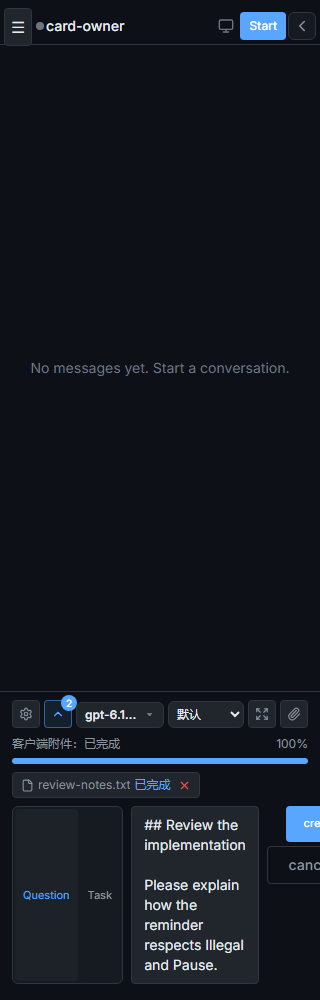
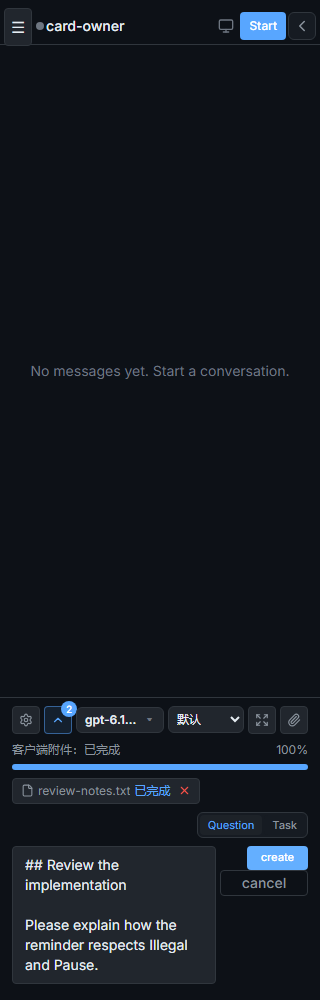
Polish reminding card composer and locker

diff --git a/packages/web/src/components/chat/InputRow.tsx b/packages/web/src/components/chat/InputRow.tsx
@@ -2713,7 +2713,17 @@ export function InputRow() {
               )}
             </div>}
           </Modal>
-          <div className="flex min-h-0 flex-1 gap-2">
+          {cardMode && (
+            <div data-testid="reminding-card-kind-row" className="relative z-10 flex w-full shrink-0 justify-end">
+              <div className="inline-flex gap-0.5 rounded-md border border-border-default bg-bg-secondary p-0.5" role="radiogroup" aria-label="Card type">
+                {(['question', 'task'] as const).map((kind) => <button key={kind} type="button" role="radio"
+                  aria-checked={cardKind === kind} onClick={() => setCardKind(kind)} className={`rounded px-2 py-0.5 text-[11px] transition-colors focus:outline-none focus-visible:ring-2 focus-visible:ring-accent ${cardKind === kind ? 'bg-bg-tertiary text-accent font-medium' : 'text-text-secondary hover:bg-bg-hover'}`}>
+                  {kind === 'question' ? 'Question' : 'Task'}
+                </button>)}
+              </div>
+            </div>
+          )}
+          <div className={`flex min-h-0 flex-1 ${cardMode ? 'gap-1' : 'gap-2'}`}>
             <input
               ref={clientAttachmentInputRef}
               type="file"
@@ -2746,16 +2756,6 @@ export function InputRow() {
               }}
               onKeyDown={handleKeyDown}
             />
-            {cardMode && (
-              <div data-testid="reminding-card-kind-row" className="flex shrink-0 justify-end">
-                <div className="inline-flex gap-0.5 rounded-md border border-border-default bg-bg-secondary p-0.5" role="radiogroup" aria-label="Card type">
-                  {(['question', 'task'] as const).map((kind) => <button key={kind} type="button" role="radio"
-                    aria-checked={cardKind === kind} onClick={() => setCardKind(kind)} className={`rounded px-2 py-1 text-[11px] transition-colors focus:outline-none focus-visible:ring-2 focus-visible:ring-accent ${cardKind === kind ? 'bg-bg-tertiary text-accent font-medium' : 'text-text-secondary hover:bg-bg-hover'}`}>
-                    {kind === 'question' ? 'Question' : 'Task'}
-                  </button>)}
-                </div>
-              </div>
-            )}
             <RichTextComposer
               placeholder={`Type a message... (${composerHint})`}
               key={currentSessionId || 'no-session'}
@@ -2803,7 +2803,7 @@ export function InputRow() {
                   Steer
                 </button>
               )}
-              <div className={`flex flex-col items-end gap-1 ${cardMode ? 'min-w-[88px]' : ''}`}>
+              <div className={`flex flex-col items-end ${cardMode ? 'min-w-[88px] gap-0 lg:-translate-y-10' : 'gap-1'}`}>
                 <button
                   ref={sendButtonRef}
                   type="button"
@@ -2815,7 +2815,7 @@ export function InputRow() {
                     : attachmentsBlocked
                       ? '请等待附件上传完成，或重试/取消失败附件'
                       : `${cardMode ? 'create' : lockedComposerMode ? 'put in queue' : 'Send'} (${composerBindingLabel('composer.send')})`}
-                  className={`${cardMode ? 'max-w-[142px] text-[11px] sm:max-w-none sm:text-sm' : ''} rounded border-2 px-4 py-2 text-sm font-medium text-white transition-colors self-end disabled:cursor-not-allowed disabled:opacity-50 ${lockedComposerMode
+                    className={`${cardMode ? 'max-w-[142px] px-3 py-0.5 text-[11px] sm:max-w-none sm:text-sm' : 'px-4 py-2'} rounded border-2 text-sm font-medium text-white transition-colors self-end disabled:cursor-not-allowed disabled:opacity-50 ${lockedComposerMode
                     ? 'border-danger bg-accent hover:bg-accent-hover'
                     : 'border-transparent bg-accent hover:bg-accent-hover'}`}
                 >
@@ -2824,7 +2824,7 @@ export function InputRow() {
                 </button>
                 {cardMode && (
                   <button type="button" onClick={() => setCardMode(false)}
-                    className="w-full rounded border border-border-default px-3 py-2 text-sm font-medium text-text-secondary transition-colors hover:bg-bg-hover disabled:cursor-not-allowed disabled:opacity-50">
+                    className="w-full rounded border border-border-default px-3 py-0.5 text-sm font-medium text-text-secondary transition-colors hover:bg-bg-hover disabled:cursor-not-allowed disabled:opacity-50">
                     cancel
                   </button>
                 )}

diff --git a/packages/web/src/views/UserCardRow.tsx b/packages/web/src/views/UserCardRow.tsx
@@ -1,4 +1,4 @@
-import { Check, Circle, Trash2, ArrowUpRight, MessageSquare, ClipboardList } from 'lucide-react';
+import { Check, Circle, Trash2, ArrowUpRight } from 'lucide-react';
 import { Button } from '@/components/ui/Button';
 import { MarkdownRenderer } from '@/components/chat/MarkdownRenderer';
 import { MessageTimestamp } from '@/components/chat/MessageTimestamp';
@@ -113,7 +113,7 @@ export function UserCardRow({
           {card.kind === 'question' ? 'Reminding · Question' : 'Reminding · Task'}
         </span>
         <span className={`locker-status ${answered ? 'responded' : ''}`}>
-          {answered ? '已回答 · Answered' : '等待回答 · Awaiting answer'}
+          {answered ? 'Answered' : 'Awaiting answer'}
         </span>
         {answered && (
           <button
@@ -128,7 +128,6 @@ export function UserCardRow({
           </button>
         )}
       </header>
-      <h2 className="locker-card-title reminding-card-heading">{card.kind === 'question' ? <MessageSquare size={15} /> : <ClipboardList size={15} />}{card.kind === 'question' ? 'Reminding · Question' : 'Reminding · Task'}</h2>
       <MarkdownRenderer
         sourceSessionId={card.ownerSessionId}
         content={card.body + (attachments ? `\n\n${attachments}` : '')}

diff --git a/packages/web/src/views/LockerView.test.tsx b/packages/web/src/views/LockerView.test.tsx
@@ -644,7 +644,7 @@ function reverseCard(answered = true): UserCard {
 describe('reminding card positions share one record', () => {
   it('renders pending once without read controls and keeps answered projections ordered deterministically', async () => {
     cards = []; userCards = [reverseCard(false)]; mount();
-    await screen.findByText('等待回答 · Awaiting answer');
+    await screen.findByText('Awaiting answer');
     expect(document.querySelectorAll('[data-reminding-card-id="uc"]')).toHaveLength(1);
     expect(screen.queryByRole('button', {name: /Mark reminding card/})).toBeNull();
     const sameTime = {...reverseCard(), answeredAt: reverseCard().createdAt};
